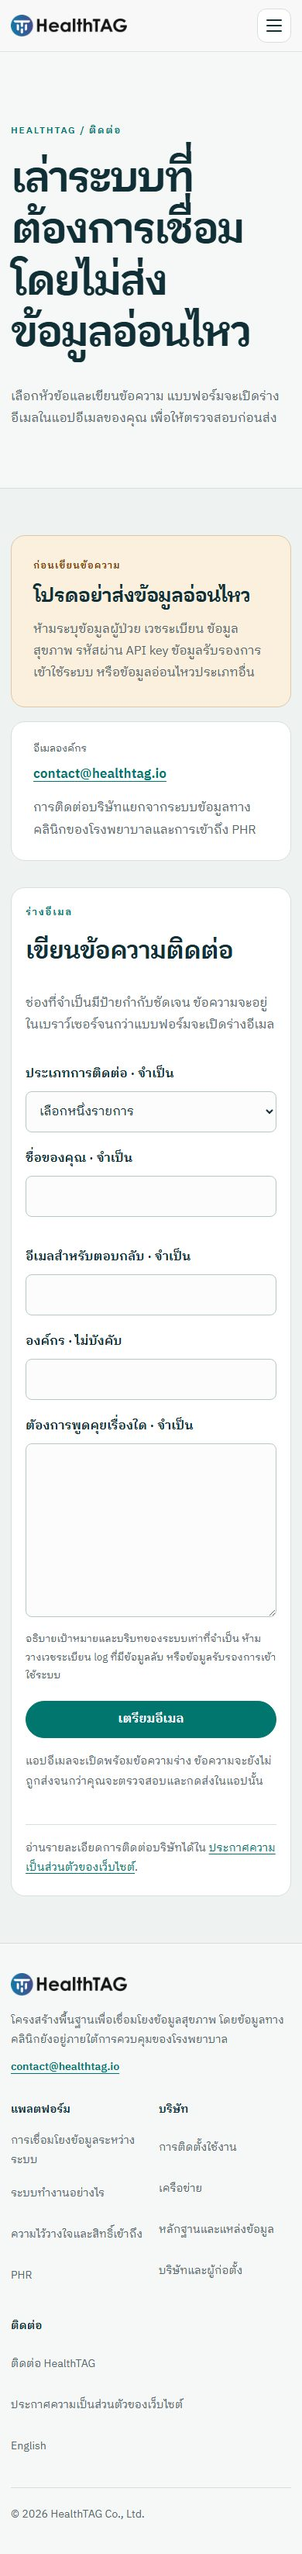
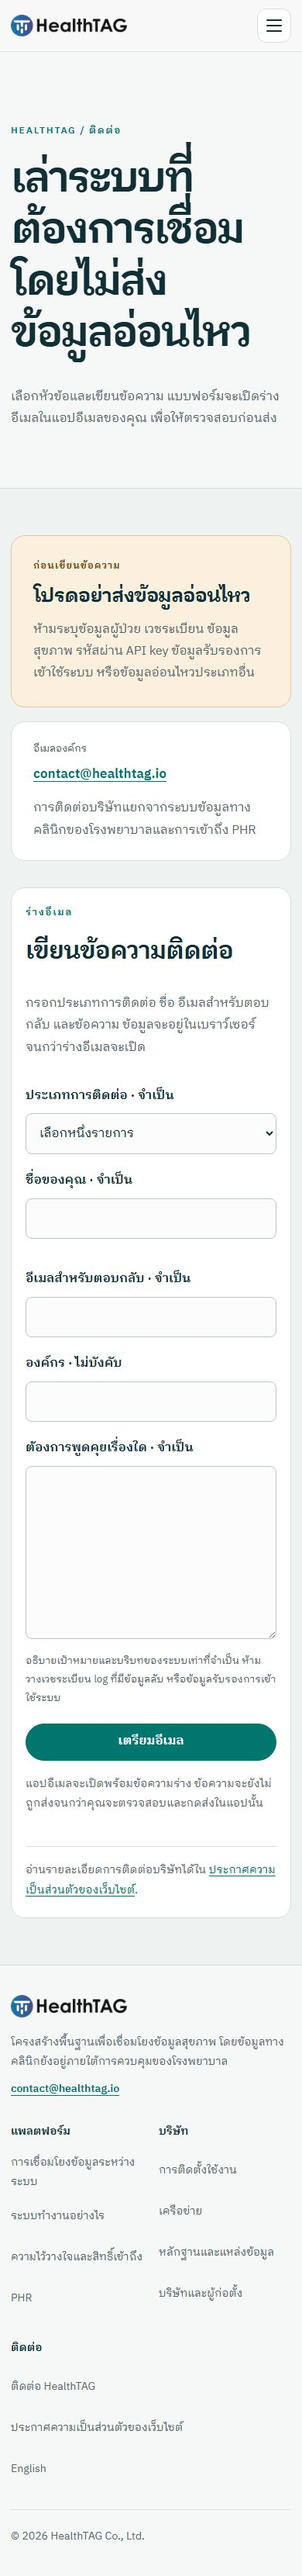
fix: remove meta UI copy and add copy guard

diff --git a/src/data/site-content.ts b/src/data/site-content.ts
@@ -12,8 +12,8 @@ export const pageContent: Record<string, Record<Locale, PageCopy>> = {
     en:{label:'Personal Health Record',title:'Authorized health records in one view.',intro:'The PHR presents records that a patient is authorized to access from hospital systems.',sections:[{heading:'PromptCare ID',body:'HealthTAG Module links each hospital patient identity to PromptCare ID so records can be matched to the same person.'},{heading:'Patient access',body:'The PHR reads authorized FHIR records from hospital systems and presents them to the patient.'}]}
   },
   'how-it-works':{
-    th:{label:'ระบบทำงานอย่างไร',title:'จาก HIS ถึงการตรวจสอบย้อนหลังใน 6 ขั้น',intro:'ภาพรวมนี้อธิบายหน้าที่ของแต่ละส่วน ตั้งแต่การนำข้อมูลเข้า FHIR จนถึงการบันทึกเหตุการณ์เข้าถึง',sections:[{heading:'1. เชื่อมข้อมูล',body:'ข้อมูลจาก HIS เข้าสู่ FHIR ผ่านสคริปต์ของโรงพยาบาลหรือ HealthTAG FHIR Transformer'},{heading:'2. ทำให้เป็นมาตรฐาน',body:'ข้อมูลอยู่ในรูปแบบ HL7 FHIR R4 เพื่อให้ระบบที่เชื่อมต่อกันใช้โครงสร้างเดียวกัน'},{heading:'3. เชื่อมตัวตน',body:'HealthTAG Module เชื่อมตัวตนผู้ป่วยของแต่ละโรงพยาบาลกับ PromptCare ID'},{heading:'4. ตรวจสอบสิทธิ์',body:'Hospital API ตรวจสิทธิ์และช่วงเวลาการเข้าถึงก่อนส่งข้อมูล'},{heading:'5. แลกเปลี่ยน',body:'ระบบส่งข้อมูล FHIR ตามสิทธิ์ไปยัง PHR หรือแอปที่ได้รับอนุญาต'},{heading:'6. บันทึกเหตุการณ์',body:'Blockchain บันทึกเหตุการณ์การให้ความยินยอมและการเข้าถึงเพื่อตรวจสอบภายหลัง'}]},
-    en:{label:'How It Works',title:'Six stages from HIS ingestion to audit.',intro:'This overview follows each responsibility from FHIR ingestion to the record of an access event.',sections:[{heading:'1. Connect',body:'HIS data enters FHIR through a hospital IT script or HealthTAG FHIR Transformer.'},{heading:'2. Standardize',body:'HL7 FHIR R4 gives connected systems a shared data structure.'},{heading:'3. Identify',body:'HealthTAG Module links each hospital patient identity to PromptCare ID.'},{heading:'4. Authorize',body:'Hospital API checks permission and the access window before returning data.'},{heading:'5. Exchange',body:'The system sends authorized FHIR data to the PHR or another approved application.'},{heading:'6. Record',body:'Blockchain records consent and access events for later review.'}]}
+    th:{label:'ระบบทำงานอย่างไร',title:'จาก HIS ถึงการตรวจสอบย้อนหลังใน 6 ขั้น',intro:'ข้อมูลผ่านการนำเข้าสู่ FHIR การจับคู่ตัวตน การตรวจสิทธิ์ และการบันทึกเหตุการณ์เข้าถึง',sections:[{heading:'1. เชื่อมข้อมูล',body:'ข้อมูลจาก HIS เข้าสู่ FHIR ผ่านสคริปต์ของโรงพยาบาลหรือ HealthTAG FHIR Transformer'},{heading:'2. ทำให้เป็นมาตรฐาน',body:'ข้อมูลอยู่ในรูปแบบ HL7 FHIR R4 เพื่อให้ระบบที่เชื่อมต่อกันใช้โครงสร้างเดียวกัน'},{heading:'3. เชื่อมตัวตน',body:'HealthTAG Module เชื่อมตัวตนผู้ป่วยของแต่ละโรงพยาบาลกับ PromptCare ID'},{heading:'4. ตรวจสอบสิทธิ์',body:'Hospital API ตรวจสิทธิ์และช่วงเวลาการเข้าถึงก่อนส่งข้อมูล'},{heading:'5. แลกเปลี่ยน',body:'ระบบส่งข้อมูล FHIR ตามสิทธิ์ไปยัง PHR หรือแอปที่ได้รับอนุญาต'},{heading:'6. บันทึกเหตุการณ์',body:'Blockchain บันทึกเหตุการณ์การให้ความยินยอมและการเข้าถึงเพื่อตรวจสอบภายหลัง'}]},
+    en:{label:'How It Works',title:'Six stages from HIS ingestion to audit.',intro:'Data moves through FHIR ingestion, identity matching, access checks, and the recording of access events.',sections:[{heading:'1. Connect',body:'HIS data enters FHIR through a hospital IT script or HealthTAG FHIR Transformer.'},{heading:'2. Standardize',body:'HL7 FHIR R4 gives connected systems a shared data structure.'},{heading:'3. Identify',body:'HealthTAG Module links each hospital patient identity to PromptCare ID.'},{heading:'4. Authorize',body:'Hospital API checks permission and the access window before returning data.'},{heading:'5. Exchange',body:'The system sends authorized FHIR data to the PHR or another approved application.'},{heading:'6. Record',body:'Blockchain records consent and access events for later review.'}]}
   },
   trust:{
     th:{label:'ความไว้วางใจและสิทธิ์เข้าถึง',title:'ใครดูแลข้อมูล และระบบตรวจสิทธิ์อย่างไร',intro:'โรงพยาบาลเก็บเวชระเบียนไว้ในระบบของตน ส่วน HealthTAG เชื่อมตัวตน ตรวจสิทธิ์ ปกป้อง API และบันทึกเหตุการณ์เข้าถึง',sections:[{heading:'เวชระเบียนอยู่ที่โรงพยาบาล',body:'เวชระเบียนอยู่ในโครงสร้างพื้นฐาน FHIR ของโรงพยาบาล ส่วน blockchain เก็บเฉพาะเหตุการณ์การให้ความยินยอมและการเข้าถึง'},{heading:'การตรวจสิทธิ์',body:'Hospital API ตรวจช่วงเวลาการเข้าถึง 15 นาทีที่กำหนดจากสถานะบน blockchain'},{heading:'การปกป้อง API',body:'Kong ปกป้อง HAPI FHIR API ขณะที่ authentication, encryption และการปฏิบัติการยังต้องทำงานร่วมกัน'}]},
@@ -24,8 +24,8 @@ export const pageContent: Record<string, Record<Locale, PageCopy>> = {
     en:{label:'Deployments',title:'Siriraj and Khian Sa use different ingestion paths.',intro:'Siriraj uses a script developed by its hospital IT team. Khian Sa uses HealthTAG FHIR Transformer.',sections:[{heading:'Siriraj 5G Smart Hospital',body:'HealthTAG says it participated in the Permission-based Blockchain for Personal Health Record subproject. Siriraj IT uses its own script to send HIS data to the FHIR Server.'},{heading:'Khian Sa Hospital',body:'Khian Sa Hospital uses HealthTAG FHIR Transformer to map selected HIS data to HL7 FHIR R4.'}]}
   },
   network:{
-    th:{label:'เครือข่าย',title:'การติดตั้ง โครงการ รางวัล และเครือข่ายของ HealthTAG',intro:'แต่ละองค์กรมีป้ายกำกับเพื่อบอกประเภทความสัมพันธ์อย่างชัดเจน',sections:[]},
-    en:{label:'Network',title:'HealthTAG deployments, programmes, awards, and network relationships.',intro:'Each organization is labeled by its documented relationship with HealthTAG.',sections:[]}
+    th:{label:'เครือข่าย',title:'การติดตั้ง โครงการ รางวัล และเครือข่ายของ HealthTAG',intro:'HealthTAG มีความสัมพันธ์กับโรงพยาบาล สถาบันการแพทย์ หน่วยงานไทย และเครือข่ายต่างประเทศในหลายรูปแบบ',sections:[]},
+    en:{label:'Network',title:'HealthTAG deployments, programmes, awards, and network relationships.',intro:'HealthTAG has several types of relationship with hospitals, medical institutions, Thai organizations, and international networks.',sections:[]}
   },
   company:{
     th:{label:'บริษัท',title:'HealthTAG เริ่มจากปัญหาที่แพทย์พบในการดูแลผู้ป่วย',intro:'ข้อมูลสุขภาพมีอยู่ในหลายระบบ แต่ยังตามผู้ป่วยไปถึงจุดที่ต้องใช้งานได้ยาก',sections:[{heading:'เป้าหมาย',body:'ช่วยให้ข้อมูลสุขภาพที่ได้รับอนุญาตพร้อมใช้ โดยโรงพยาบาลยังควบคุมเวชระเบียนของตน'},{heading:'แนวทาง',body:'เชื่อมระบบเดิม ทำงานกับมาตรฐาน FHIR และแยกหน้าที่ด้านตัวตน สิทธิ์ และการตรวจสอบให้ชัดเจน'},{heading:'ผู้ก่อตั้ง',body:'นพ. เดโชวัต พรมดา ก่อตั้ง HealthTAG จากประสบการณ์ทำงานเป็นแพทย์และปัญหาการไหลของข้อมูลสุขภาพที่พบในการดูแลผู้ป่วย'}]},

diff --git a/src/data/partners.ts b/src/data/partners.ts
@@ -54,7 +54,7 @@ export const networkGroups: NetworkGroup[] = [
     introduction: { th: 'หน่วยงานไทยในเครือข่าย โครงการ และความร่วมมือของ HealthTAG', en: 'Thai organizations in the HealthTAG network, programmes, and public collaborations.' },
     organizations: [
       { id: 'depa', name: { th: 'depa', en: 'depa' }, logo: depa, relationship: { th: 'บันทึกความเข้าใจด้านโครงสร้างพื้นฐาน blockchain สำหรับบริการประชาชน', en: 'Public MoU on blockchain infrastructure for public services' }, badge: { th: 'ความร่วมมือสาธารณะ', en: 'Public Collaboration' }, detailPage: 'evidence' },
-      { id: 'etda', name: { th: 'ETDA', en: 'ETDA' }, logo: etda, relationship: { th: 'Digital Service Sandbox ดูขอบเขตผลการทดสอบได้ที่หน้าหลักฐาน', en: 'Digital Service Sandbox; see Evidence for the testing scope' }, badge: { th: 'Sandbox', en: 'Sandbox' }, detailPage: 'evidence' },
+      { id: 'etda', name: { th: 'ETDA', en: 'ETDA' }, logo: etda, relationship: { th: 'ผลการทดสอบใน Digital Service Sandbox เป็นไปตามเป้าหมายที่ ETDA กำหนด', en: 'Testing in the Digital Service Sandbox met the goals set by ETDA' }, badge: { th: 'Sandbox', en: 'Sandbox' }, detailPage: 'evidence' },
       { id: 'ticta', name: { th: 'Thailand ICT Awards (TICTA)', en: 'Thailand ICT Awards (TICTA)' }, logo: ticta, relationship: { th: 'ความสัมพันธ์ด้านรางวัลของ HealthTAG', en: 'HealthTAG award relationship' }, badge: { th: 'รางวัล', en: 'Award' } },
       { id: 'nia', name: { th: 'สำนักงานนวัตกรรมแห่งชาติ (NIA)', en: 'National Innovation Agency (NIA)' }, logo: nia, relationship: { th: 'โครงการสนับสนุนการขยายตลาดและการจับคู่ธุรกิจ', en: 'Market-expansion and business-matching programme' }, badge: { th: 'โครงการ', en: 'Programme' }, detailPage: 'evidence' },
       { id: 'sidata', name: { th: 'SiData', en: 'SiData' }, logo: sidata, relationship: listing, badge: { th: 'เครือข่าย', en: 'Network' } },

diff --git a/AGENTS.md b/AGENTS.md
@@ -53,6 +53,17 @@ The architecture summary in `README.md` is the repository baseline. In particula
 - Preserve important legacy URLs with deliberate redirects.
 - Keep dependencies, lockfile, Node requirements, and CI aligned.
 
+## Public copy discipline
+
+- Public copy must describe HealthTAG, the system, the evidence, or the relationship itself. Do not narrate the page layout, badge system, card structure, or editorial process.
+- Delete meta-UI sentences when the heading or visible structure already communicates the point. Examples to reject include “แต่ละองค์กรมีป้ายกำกับ…”, “หน้านี้แสดง…”, “วิธีอ่านป้ายกำกับ”, “Each entry shows…”, “This list applies…”, and “shown separately”.
+- Replace meta-UI copy with a concrete fact. If no fact is added, remove the sentence instead of rephrasing it.
+- Keep source boundaries on Evidence and Deployments, but state them directly: name what the source confirms and what information comes from HealthTAG.
+- Keep functional instructions where users need them, including form requirements, sensitive-data warnings, error recovery, and accessible text alternatives for diagrams.
+- Avoid internal editorial and engineering terms in public copy, including `baseline`, `repository`, `owner-confirmed`, `workstream`, `claim`, `source-node stack`, `production scope`, and `component boundary`.
+- Run a Humanizer review on new or materially revised public copy. Preserve facts and technical names; remove slogans, repetitive negative framing, filler, and manufactured punchlines.
+- Thai and English should sound natural in their own language. Do not preserve an English sentence shape when Thai can state the fact more directly.
+
 ## Workflow and verification
 
 1. Inspect the repository, relevant sources, and rendered output.
